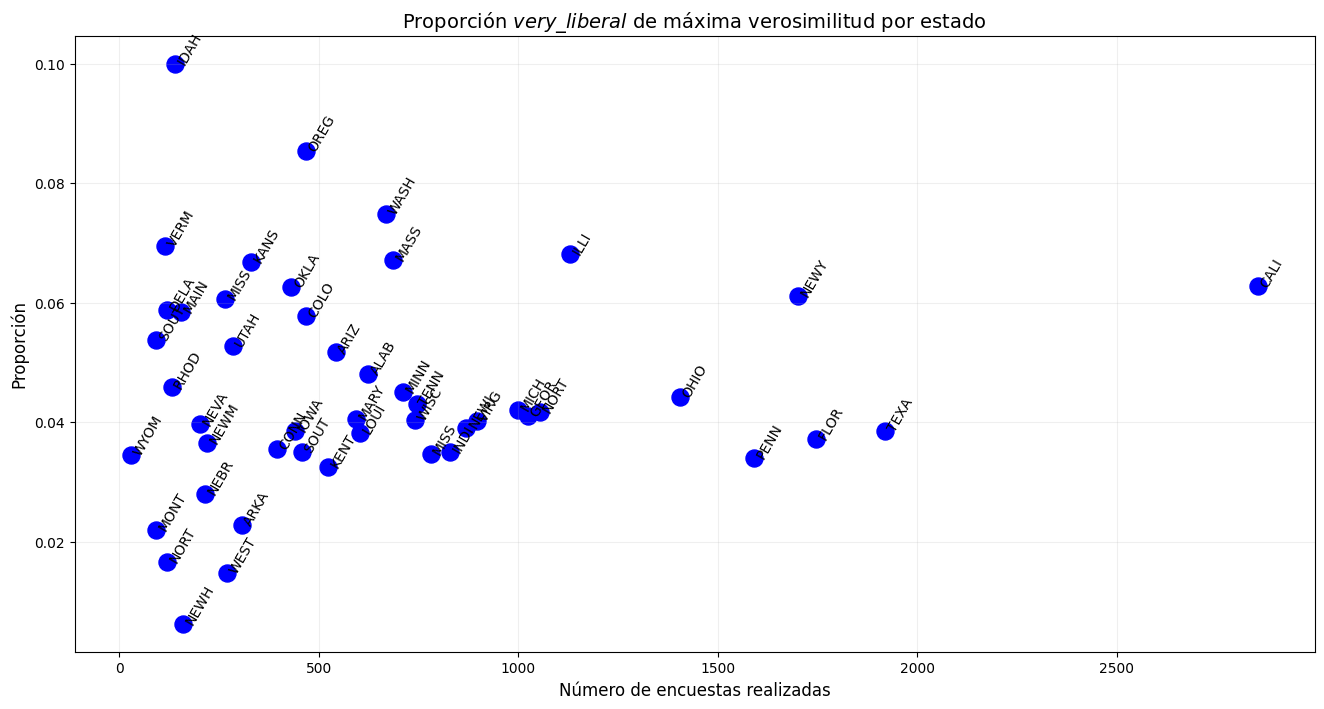
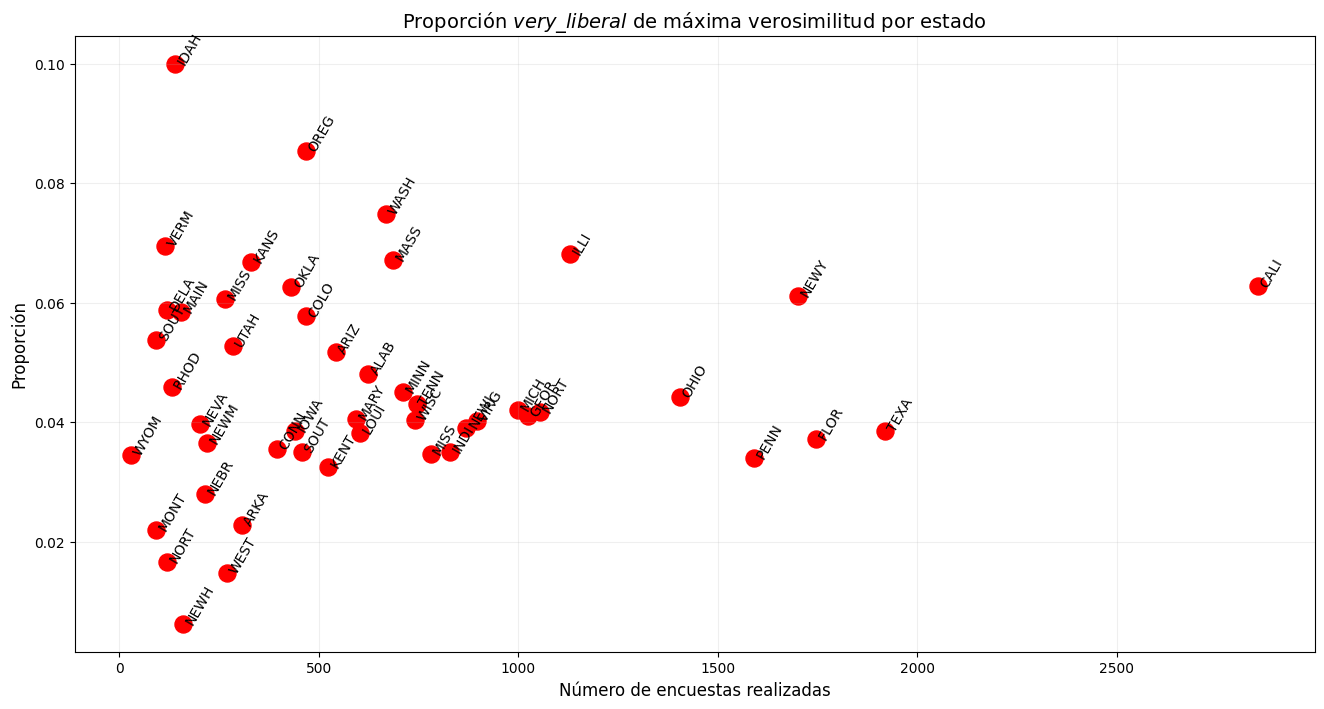
HTML render

diff --git a/bayes-first-steps.html b/bayes-first-steps.html
@@ -270,7 +270,7 @@ code span.wa { color: #60a0b0; font-weight: bold; font-style: italic; } /* Warni
 <summary>Code</summary>
 <div class="sourceCode cell-code" id="cb3"><pre class="sourceCode python code-with-copy"><code class="sourceCode python"><span id="cb3-1"><a href="#cb3-1" aria-hidden="true" tabindex="-1"></a><span class="co">#Scatter plot</span></span>
 <span id="cb3-2"><a href="#cb3-2" aria-hidden="true" tabindex="-1"></a>plt.figure(figsize<span class="op">=</span>plot_settings[<span class="st">'figsize'</span>])</span>
-<span id="cb3-3"><a href="#cb3-3" aria-hidden="true" tabindex="-1"></a>plt.scatter(x<span class="op">=</span>prop[<span class="st">'survey_total'</span>], y<span class="op">=</span>prop[<span class="st">'prop_mle'</span>], s<span class="op">=</span><span class="dv">150</span>, color<span class="op">=</span><span class="st">'blue'</span>)</span>
+<span id="cb3-3"><a href="#cb3-3" aria-hidden="true" tabindex="-1"></a>plt.scatter(x<span class="op">=</span>prop[<span class="st">'survey_total'</span>], y<span class="op">=</span>prop[<span class="st">'prop_mle'</span>], s<span class="op">=</span><span class="dv">150</span>, color<span class="op">=</span><span class="st">'red'</span>)</span>
 <span id="cb3-4"><a href="#cb3-4" aria-hidden="true" tabindex="-1"></a></span>
 <span id="cb3-5"><a href="#cb3-5" aria-hidden="true" tabindex="-1"></a><span class="co">#Anotaciones y estilo</span></span>
 <span id="cb3-6"><a href="#cb3-6" aria-hidden="true" tabindex="-1"></a><span class="cf">for</span> idx <span class="kw">in</span> prop.index:</span>
@@ -371,7 +371,7 @@ code span.wa { color: #60a0b0; font-weight: bold; font-style: italic; } /* Warni
 </div>
 <div style="text-align: justify">
 <p>En este caso, lo que se observa es que la distribución de personas de cada estado que se identifican <em>very liberal</em> bajo un enfoque frecuentista, tiene una media de <span class="math inline">\(\mu\approx 0.045\)</span> y desviación estándar <span class="math inline">\(\sigma\approx 0.018\)</span>. Se podría retomar la intuición de la sección anterior, es decir, cada uno de los estados es una representación del comportamiento general de todo el país, en donde el comportamiento general estaría centrado en <span class="math inline">\(\mu= 0.0459\)</span>.</p>
-<p>La idea en la que cada estado varía en mayor o menor medida de un valor central representa entonces el conocimiento inicial, queda definir su relevancia. En este caso, la relevancia queda dada por la desviación estándar de los datos, entre menor sea la desviación mayor será la influencia de la inicial sobre la posterior y viceversa. Se puede observar el efecto de la relevancia de la inicial comparando diferentes valores de <span class="math inline">\(\sigma\)</span>, para ello, arbitrariamente se puede escoger un estado (por ejemplo Idaho), y se va a utilizar como referencia la desviación de la gráfica anterior, es decir, <span class="math inline">\(\sigma=0.018\)</span>:</p>
+<p>La idea en la que cada estado varía en mayor o menor medida de un valor central representa entonces el conocimiento inicial, queda definir su relevancia. En este caso, la relevancia queda dada por la desviación estándar de los datos, entre menor sea la desviación mayor será la influencia de la inicial sobre la posterior y viceversa. Se puede observar el efecto de la relevancia de la inicial comparando diferentes valores de <span class="math inline">\(\sigma\)</span>, para ello, arbitrariamente se puede escoger un estado (por ejemplo Idaho), y se va a utilizar como referencia la desviación de la gráfica anterior, es decir, <span class="math inline">\(\sigma=0.018\)</span>.</p>
 </div>
 <div class="cell" data-execution_count="6">
 <details>
@@ -439,7 +439,7 @@ code span.wa { color: #60a0b0; font-weight: bold; font-style: italic; } /* Warni
 <li>Para la desviación estándar de referencia <span class="math inline">\(\sigma=0.018\)</span>, la media de la posterior se encuentra aproximadamente en <span class="math inline">\(0.075\)</span>, aproximadamente a la mitad entre la inicial y la verosimilitud.</li>
 <li>Para una desviación estándar <span class="math inline">\(\sigma=0.03\)</span>, la media de la posterior se encuentra aproximadamente en <span class="math inline">\(0.08\)</span>, mucho más cercana al valor de la verosimilitud.</li>
 </ul>
-<p>Ahora bien, una vez entendida la lógica detrás del enfoque bayesiano aplicado en un único estado, es tiempo de regresar al valor de referencia <span class="math inline">\(\sigma=0.018\)</span> y visualizar el comportamiento de todos los estados. Para ello, primero se pueden describir 9 estados de interés:</p>
+<p>Ahora bien, una vez entendida la lógica detrás del enfoque bayesiano aplicado en un único estado, es tiempo de regresar al valor de referencia <span class="math inline">\(\sigma=0.018\)</span> y visualizar el comportamiento de todos los estados. Para ello, primero se pueden describir 9 estados de interés.</p>
 </div>
 <div class="cell" data-execution_count="7">
 <details>
@@ -493,14 +493,15 @@ code span.wa { color: #60a0b0; font-weight: bold; font-style: italic; } /* Warni
 </div>
 </div>
 <div style="text-align: justify">
-<p>La relevancia del panel anterior radica en que se puede ver con claridad el efecto de la verosimilitud de cada estado en la distribución inicial. Al considerar la misma inicial para todos los estados se está modelando el comportamiento promedio del país sobre cada uno de los estados. Sin embargo, al haber modelado la verosimilitud de cada estado de manera independiente, se puede ver que la posterior de cada uno tiene comportamientos distintos dependiendo de varios posibles factores, por ejemplo:</p>
+<p>La relevancia del panel anterior radica en que se puede ver con claridad el efecto de la inicial, que parte de ser la misma para todos los estados, en la verosimilitud de cada uno de ellos. Al considerarlo de esta manera, se está modelando el comportamiento promedio del país sobre cada uno de los estados, sin embargo, al haber modelado la verosimilitud de cada estado de manera independiente, se puede ver que la posterior de cada uno tiene comportamientos distintos dependiendo de varios posibles factores. Tomando como referencia la media de la verosimilitud (Línea verde), entonces:</p>
 <ul>
-<li>Si la verosimilitud está por debajo de la inicial, entonces la posterior se mueve hacia la izquierda.</li>
-<li>Por el contrario, si la verismilitud es mayor a la inicial entonces la posterior se recorre hacia la derecha.</li>
-<li>Si se trata de un estado con poca represantación en las encuestas, entonces la inicial domina sobre la verosimilitud y vicecersa.</li>
-<li>Finalmente, en todos los casos se satisface que la posterior es un punto intermedio entre la inicial y la verosimilitud.</li>
+<li>Si la verosimilitud está por debajo de la inicial, entonces la posterior se mueve hacia la derecha, como es el caso de New Hampshire o West Virginia.</li>
+<li>Por el contrario, si la verismilitud es mayor a la inicial entonces la posterior se recorre hacia la izquierda, como es el caso de Oregon o Idaho.</li>
+<li>Si se trata de un estado con poca represantación en las encuestas, entonces la inicial desplaza considerablemente a la posterior dejándola aproximadamente a la mitad, como es el caso de Idaho o New Hampshire.</li>
+<li>En contraste, si se trata de un estado con mucha representación en las encuestas, entonces la inicial no tiene gran efecto sobre la posterior dejándola muy parecida a la verosimilitud, como es el caso de California o Texas.</li>
+<li>Finalmente, cuando tanto la inicial como la verosimilitud son muy parecidas, entonces la posterior también lo es independientemente de su representación en las encuestas, como es el caso de Ohio, Alabama, o Tennessee.</li>
 </ul>
-<p>Obtenemos el estimador de la posterior para todos los estados</p>
+<p>Así pues, nuevamente se visualiza la proporción de votos que tuvo obama contra la proporción de <em>very liberal</em> por estado, en esta ocasión utilizando ambos enfoques.</p>
 </div>
 <div class="cell" data-execution_count="8">
 <details>
@@ -514,52 +515,29 @@ code span.wa { color: #60a0b0; font-weight: bold; font-style: italic; } /* Warni
 <span id="cb8-7"><a href="#cb8-7" aria-hidden="true" tabindex="-1"></a>    x <span class="op">=</span> prop.loc[idx][<span class="st">'survey_very_lib'</span>]</span>
 <span id="cb8-8"><a href="#cb8-8" aria-hidden="true" tabindex="-1"></a>    posterior_mean <span class="op">=</span> beta.rvs(a<span class="op">=</span>(a<span class="op">+</span>x), b<span class="op">=</span>(b<span class="op">+</span>n<span class="op">-</span>x), size<span class="op">=</span>sims).mean()</span>
 <span id="cb8-9"><a href="#cb8-9" aria-hidden="true" tabindex="-1"></a>    </span>
-<span id="cb8-10"><a href="#cb8-10" aria-hidden="true" tabindex="-1"></a>    prop.loc[prop.index <span class="op">==</span> idx, <span class="st">'prop_bayes'</span>] <span class="op">=</span> posterior_mean</span></code><button title="Copy to Clipboard" class="code-copy-button"><i class="bi"></i></button></pre></div>
-</details>
-</div>
-<p>Comparamos el desplazamiento del estimador MLE provocado por la distribucón inicial bajo un enfoque bayesiano</p>
-<div class="cell" data-execution_count="9">
-<details>
-<summary>Code</summary>
-<div class="sourceCode cell-code" id="cb9"><pre class="sourceCode python code-with-copy"><code class="sourceCode python"><span id="cb9-1"><a href="#cb9-1" aria-hidden="true" tabindex="-1"></a>plt.figure(figsize<span class="op">=</span>plot_settings[<span class="st">'figsize'</span>])</span>
-<span id="cb9-2"><a href="#cb9-2" aria-hidden="true" tabindex="-1"></a>plt.scatter(x<span class="op">=</span>prop[<span class="st">'survey_total'</span>], y<span class="op">=</span>prop[<span class="st">'prop_mle'</span>], color<span class="op">=</span><span class="st">'tab:blue'</span>, s<span class="op">=</span><span class="dv">100</span>, label<span class="op">=</span><span class="st">'mle'</span>)</span>
-<span id="cb9-3"><a href="#cb9-3" aria-hidden="true" tabindex="-1"></a>plt.scatter(x<span class="op">=</span>prop[<span class="st">'survey_total'</span>], y<span class="op">=</span>prop[<span class="st">'prop_bayes'</span>], color<span class="op">=</span><span class="st">'tab:green'</span>, s<span class="op">=</span><span class="dv">100</span>, label<span class="op">=</span><span class="st">'bayes'</span>)</span>
-<span id="cb9-4"><a href="#cb9-4" aria-hidden="true" tabindex="-1"></a></span>
-<span id="cb9-5"><a href="#cb9-5" aria-hidden="true" tabindex="-1"></a><span class="cf">for</span> idx <span class="kw">in</span> prop.index:</span>
-<span id="cb9-6"><a href="#cb9-6" aria-hidden="true" tabindex="-1"></a>    x <span class="op">=</span> prop.loc[idx][<span class="st">'survey_total'</span>]</span>
-<span id="cb9-7"><a href="#cb9-7" aria-hidden="true" tabindex="-1"></a>    y_mle <span class="op">=</span> prop.loc[idx][<span class="st">'prop_mle'</span>]</span>
-<span id="cb9-8"><a href="#cb9-8" aria-hidden="true" tabindex="-1"></a>    y_bayes <span class="op">=</span> prop.loc[idx][<span class="st">'prop_bayes'</span>]</span>
-<span id="cb9-9"><a href="#cb9-9" aria-hidden="true" tabindex="-1"></a>    plt.plot([x,x], [y_mle, y_bayes], color<span class="op">=</span><span class="st">'black'</span>, alpha<span class="op">=</span><span class="fl">0.25</span>)</span>
-<span id="cb9-10"><a href="#cb9-10" aria-hidden="true" tabindex="-1"></a></span>
-<span id="cb9-11"><a href="#cb9-11" aria-hidden="true" tabindex="-1"></a>plt.title(<span class="st">'Comparación de estimadores de proporción'</span>, fontsize<span class="op">=</span>plot_settings[<span class="st">'title'</span>])</span>
-<span id="cb9-12"><a href="#cb9-12" aria-hidden="true" tabindex="-1"></a>plt.xlabel(<span class="st">'Recuento de votos por estado'</span>, fontsize<span class="op">=</span>plot_settings[<span class="st">'text'</span>])</span>
-<span id="cb9-13"><a href="#cb9-13" aria-hidden="true" tabindex="-1"></a>plt.legend(fontsize<span class="op">=</span>plot_settings[<span class="st">'annotation'</span>], loc<span class="op">=</span><span class="dv">4</span>)</span>
-<span id="cb9-14"><a href="#cb9-14" aria-hidden="true" tabindex="-1"></a>plt.grid(alpha<span class="op">=</span><span class="fl">0.2</span>)</span>
-<span id="cb9-15"><a href="#cb9-15" aria-hidden="true" tabindex="-1"></a></span>
-<span id="cb9-16"><a href="#cb9-16" aria-hidden="true" tabindex="-1"></a>plt.show()</span></code><button title="Copy to Clipboard" class="code-copy-button"><i class="bi"></i></button></pre></div>
+<span id="cb8-10"><a href="#cb8-10" aria-hidden="true" tabindex="-1"></a>    prop.loc[prop.index <span class="op">==</span> idx, <span class="st">'prop_bayes'</span>] <span class="op">=</span> posterior_mean</span>
+<span id="cb8-11"><a href="#cb8-11" aria-hidden="true" tabindex="-1"></a></span>
+<span id="cb8-12"><a href="#cb8-12" aria-hidden="true" tabindex="-1"></a><span class="co">#Graficando desplazamientos</span></span>
+<span id="cb8-13"><a href="#cb8-13" aria-hidden="true" tabindex="-1"></a>plt.figure(figsize<span class="op">=</span>plot_settings[<span class="st">'figsize'</span>])</span>
+<span id="cb8-14"><a href="#cb8-14" aria-hidden="true" tabindex="-1"></a>plt.scatter(x<span class="op">=</span>prop[<span class="st">'vote_Obama_pct'</span>]<span class="op">/</span><span class="dv">100</span>, y<span class="op">=</span>prop[<span class="st">'prop_mle'</span>], color<span class="op">=</span><span class="st">'red'</span>, s<span class="op">=</span><span class="dv">150</span>, label<span class="op">=</span><span class="st">'frecuentista'</span>, alpha<span class="op">=</span><span class="fl">0.25</span>)</span>
+<span id="cb8-15"><a href="#cb8-15" aria-hidden="true" tabindex="-1"></a>plt.scatter(x<span class="op">=</span>prop[<span class="st">'vote_Obama_pct'</span>]<span class="op">/</span><span class="dv">100</span>, y<span class="op">=</span>prop[<span class="st">'prop_bayes'</span>], color<span class="op">=</span><span class="st">'blue'</span>, s<span class="op">=</span><span class="dv">150</span>, label<span class="op">=</span><span class="st">'bayesiano'</span>)</span>
+<span id="cb8-16"><a href="#cb8-16" aria-hidden="true" tabindex="-1"></a><span class="cf">for</span> idx <span class="kw">in</span> prop.index:</span>
+<span id="cb8-17"><a href="#cb8-17" aria-hidden="true" tabindex="-1"></a>    x <span class="op">=</span> prop.loc[idx][<span class="st">'vote_Obama_pct'</span>]<span class="op">/</span><span class="dv">100</span></span>
+<span id="cb8-18"><a href="#cb8-18" aria-hidden="true" tabindex="-1"></a>    y_mle <span class="op">=</span> prop.loc[idx][<span class="st">'prop_mle'</span>]</span>
+<span id="cb8-19"><a href="#cb8-19" aria-hidden="true" tabindex="-1"></a>    y_bayes <span class="op">=</span> prop.loc[idx][<span class="st">'prop_bayes'</span>]</span>
+<span id="cb8-20"><a href="#cb8-20" aria-hidden="true" tabindex="-1"></a>    plt.plot([x,x], [y_mle, y_bayes], color<span class="op">=</span><span class="st">'black'</span>, alpha<span class="op">=</span><span class="fl">0.25</span>)</span>
+<span id="cb8-21"><a href="#cb8-21" aria-hidden="true" tabindex="-1"></a></span>
+<span id="cb8-22"><a href="#cb8-22" aria-hidden="true" tabindex="-1"></a><span class="co">#Anotaciones y estilo</span></span>
+<span id="cb8-23"><a href="#cb8-23" aria-hidden="true" tabindex="-1"></a>plt.title(<span class="vs">r'Comparación de los votos por Obama contra la proporción $very\_liberal$ en ambos enfoques'</span>, fontsize<span class="op">=</span>plot_settings[<span class="st">'title'</span>])</span>
+<span id="cb8-24"><a href="#cb8-24" aria-hidden="true" tabindex="-1"></a>plt.xlabel(<span class="st">'Proporción de votos por Obama'</span>, fontsize<span class="op">=</span>plot_settings[<span class="st">'text'</span>])</span>
+<span id="cb8-25"><a href="#cb8-25" aria-hidden="true" tabindex="-1"></a>plt.ylabel(<span class="st">'Proporción de very liberal'</span>, fontsize<span class="op">=</span>plot_settings[<span class="st">'text'</span>])</span>
+<span id="cb8-26"><a href="#cb8-26" aria-hidden="true" tabindex="-1"></a>plt.legend(fontsize<span class="op">=</span>plot_settings[<span class="st">'annotation'</span>], loc<span class="op">=</span><span class="dv">4</span>)</span>
+<span id="cb8-27"><a href="#cb8-27" aria-hidden="true" tabindex="-1"></a>plt.grid(alpha<span class="op">=</span><span class="fl">0.2</span>)</span>
+<span id="cb8-28"><a href="#cb8-28" aria-hidden="true" tabindex="-1"></a></span>
+<span id="cb8-29"><a href="#cb8-29" aria-hidden="true" tabindex="-1"></a>plt.show()</span></code><button title="Copy to Clipboard" class="code-copy-button"><i class="bi"></i></button></pre></div>
 </details>
 <div class="cell-output cell-output-display">
-<p><img src="bayes-first-steps_files/figure-html/cell-10-output-1.png" class="img-fluid"></p>
-</div>
-</div>
-<p>Nuevamente graficamos la proporción de votos que tuvo obama contra la proporción de <em>very liberal</em> por estado, en esta ocasión con los resultados del enfoque bayesiano.</p>
-<div class="cell" data-execution_count="10">
-<details>
-<summary>Code</summary>
-<div class="sourceCode cell-code" id="cb10"><pre class="sourceCode python code-with-copy"><code class="sourceCode python"><span id="cb10-1"><a href="#cb10-1" aria-hidden="true" tabindex="-1"></a>plt.figure(figsize<span class="op">=</span>plot_settings[<span class="st">'figsize'</span>])</span>
-<span id="cb10-2"><a href="#cb10-2" aria-hidden="true" tabindex="-1"></a>plt.scatter(x<span class="op">=</span>prop[<span class="st">'vote_Obama_pct'</span>]<span class="op">/</span><span class="dv">100</span>, y<span class="op">=</span>prop[<span class="st">'prop_mle'</span>], color<span class="op">=</span><span class="st">'red'</span>, s<span class="op">=</span><span class="dv">100</span>, label<span class="op">=</span><span class="st">'mle'</span>, alpha<span class="op">=</span><span class="fl">0.25</span>)</span>
-<span id="cb10-3"><a href="#cb10-3" aria-hidden="true" tabindex="-1"></a>plt.scatter(x<span class="op">=</span>prop[<span class="st">'vote_Obama_pct'</span>]<span class="op">/</span><span class="dv">100</span>, y<span class="op">=</span>prop[<span class="st">'prop_bayes'</span>], color<span class="op">=</span><span class="st">'blue'</span>, s<span class="op">=</span><span class="dv">100</span>, label<span class="op">=</span><span class="st">'bayes'</span>)</span>
-<span id="cb10-4"><a href="#cb10-4" aria-hidden="true" tabindex="-1"></a></span>
-<span id="cb10-5"><a href="#cb10-5" aria-hidden="true" tabindex="-1"></a>plt.title(<span class="st">'Comparando los votos por Obama contra la proporción very liberal Bayes'</span>, fontsize<span class="op">=</span>plot_settings[<span class="st">'title'</span>])</span>
-<span id="cb10-6"><a href="#cb10-6" aria-hidden="true" tabindex="-1"></a>plt.xlabel(<span class="st">'Proporción de votos por Obama'</span>, fontsize<span class="op">=</span>plot_settings[<span class="st">'text'</span>])</span>
-<span id="cb10-7"><a href="#cb10-7" aria-hidden="true" tabindex="-1"></a>plt.ylabel(<span class="st">'Proporción de very liberal Bayes'</span>, fontsize<span class="op">=</span>plot_settings[<span class="st">'text'</span>])</span>
-<span id="cb10-8"><a href="#cb10-8" aria-hidden="true" tabindex="-1"></a>plt.legend(fontsize<span class="op">=</span>plot_settings[<span class="st">'annotation'</span>], loc<span class="op">=</span><span class="dv">4</span>)</span>
-<span id="cb10-9"><a href="#cb10-9" aria-hidden="true" tabindex="-1"></a>plt.grid(alpha<span class="op">=</span><span class="fl">0.2</span>)</span>
-<span id="cb10-10"><a href="#cb10-10" aria-hidden="true" tabindex="-1"></a></span>
-<span id="cb10-11"><a href="#cb10-11" aria-hidden="true" tabindex="-1"></a>plt.show()</span></code><button title="Copy to Clipboard" class="code-copy-button"><i class="bi"></i></button></pre></div>
-</details>
-<div class="cell-output cell-output-display">
-<p><img src="bayes-first-steps_files/figure-html/cell-11-output-1.png" class="img-fluid"></p>
+<p><img src="bayes-first-steps_files/figure-html/cell-9-output-1.png" class="img-fluid"></p>
 </div>
 </div>
 <ul>
@@ -571,67 +549,59 @@ code span.wa { color: #60a0b0; font-weight: bold; font-style: italic; } /* Warni
 </section>
 <section id="anexo-2" class="level2">
 <h2 class="anchored" data-anchor-id="anexo-2">Anexo 2</h2>
-<p>Utilizando el paquete de python <code>sympy</code> para cálculo simbólico, se obtuvieron las ecuaciones que resulven los parámetros <span class="math inline">\(a\)</span>, <span class="math inline">\(b\)</span> de una distribución conjugada beta-binomial dados los valores de <span class="math inline">\(\mu\)</span>, <span class="math inline">\(\sigma\)</span>.</p>
-<div class="cell" data-execution_count="11">
+<p>Utilizando el módulo de python <code>sympy</code> para cálculo simbólico, se obtuvieron las ecuaciones que resulven los parámetros <span class="math inline">\(a\)</span>, <span class="math inline">\(b\)</span> de una distribución conjugada beta-binomial dados los valores de <span class="math inline">\(\mu\)</span>, <span class="math inline">\(\sigma\)</span>.</p>
+<div class="cell" data-execution_count="9">
 <details>
 <summary>Code</summary>
-<div class="sourceCode cell-code" id="cb11"><pre class="sourceCode python code-with-copy"><code class="sourceCode python"><span id="cb11-1"><a href="#cb11-1" aria-hidden="true" tabindex="-1"></a><span class="im">from</span> sympy <span class="im">import</span> symbols, Eq, solve</span>
-<span id="cb11-2"><a href="#cb11-2" aria-hidden="true" tabindex="-1"></a><span class="im">from</span> sympy.abc <span class="im">import</span> mu, sigma</span></code><button title="Copy to Clipboard" class="code-copy-button"><i class="bi"></i></button></pre></div>
+<div class="sourceCode cell-code" id="cb9"><pre class="sourceCode python code-with-copy"><code class="sourceCode python"><span id="cb9-1"><a href="#cb9-1" aria-hidden="true" tabindex="-1"></a><span class="im">from</span> sympy <span class="im">import</span> symbols, Eq, solve</span>
+<span id="cb9-2"><a href="#cb9-2" aria-hidden="true" tabindex="-1"></a><span class="im">from</span> sympy.abc <span class="im">import</span> mu, sigma</span>
+<span id="cb9-3"><a href="#cb9-3" aria-hidden="true" tabindex="-1"></a></span>
+<span id="cb9-4"><a href="#cb9-4" aria-hidden="true" tabindex="-1"></a>a, b, s2, m <span class="op">=</span> symbols(<span class="st">"a b sigma^2 mu"</span>)</span>
+<span id="cb9-5"><a href="#cb9-5" aria-hidden="true" tabindex="-1"></a></span>
+<span id="cb9-6"><a href="#cb9-6" aria-hidden="true" tabindex="-1"></a>equation_1 <span class="op">=</span> Eq( a <span class="op">/</span> (a<span class="op">+</span>b), m )</span>
+<span id="cb9-7"><a href="#cb9-7" aria-hidden="true" tabindex="-1"></a>equation_2 <span class="op">=</span> Eq( a<span class="op">*</span>b <span class="op">/</span> ((a<span class="op">+</span>b)<span class="op">**</span><span class="dv">2</span> <span class="op">*</span> (a <span class="op">+</span> b <span class="op">+</span> <span class="dv">1</span>)), s2 )</span>
+<span id="cb9-8"><a href="#cb9-8" aria-hidden="true" tabindex="-1"></a>solution <span class="op">=</span> solve((equation_1, equation_2), (a, b))</span>
+<span id="cb9-9"><a href="#cb9-9" aria-hidden="true" tabindex="-1"></a></span>
+<span id="cb9-10"><a href="#cb9-10" aria-hidden="true" tabindex="-1"></a>equation_1</span></code><button title="Copy to Clipboard" class="code-copy-button"><i class="bi"></i></button></pre></div>
 </details>
-</div>
-<div class="cell" data-execution_count="12">
-<details>
-<summary>Code</summary>
-<div class="sourceCode cell-code" id="cb12"><pre class="sourceCode python code-with-copy"><code class="sourceCode python"><span id="cb12-1"><a href="#cb12-1" aria-hidden="true" tabindex="-1"></a>a, b, s2, m <span class="op">=</span> symbols(<span class="st">"a b sigma^2 mu"</span>)</span>
-<span id="cb12-2"><a href="#cb12-2" aria-hidden="true" tabindex="-1"></a></span>
-<span id="cb12-3"><a href="#cb12-3" aria-hidden="true" tabindex="-1"></a>equation_1 <span class="op">=</span> Eq( a <span class="op">/</span> (a<span class="op">+</span>b), m )</span>
-<span id="cb12-4"><a href="#cb12-4" aria-hidden="true" tabindex="-1"></a>equation_2 <span class="op">=</span> Eq( a<span class="op">*</span>b <span class="op">/</span> ((a<span class="op">+</span>b)<span class="op">**</span><span class="dv">2</span> <span class="op">*</span> (a <span class="op">+</span> b <span class="op">+</span> <span class="dv">1</span>)), s2 )</span>
-<span id="cb12-5"><a href="#cb12-5" aria-hidden="true" tabindex="-1"></a>solution <span class="op">=</span> solve((equation_1, equation_2), (a, b))</span></code><button title="Copy to Clipboard" class="code-copy-button"><i class="bi"></i></button></pre></div>
-</details>
-</div>
-<div class="cell" data-execution_count="13">
-<details>
-<summary>Code</summary>
-<div class="sourceCode cell-code" id="cb13"><pre class="sourceCode python code-with-copy"><code class="sourceCode python"><span id="cb13-1"><a href="#cb13-1" aria-hidden="true" tabindex="-1"></a>equation_1</span></code><button title="Copy to Clipboard" class="code-copy-button"><i class="bi"></i></button></pre></div>
-</details>
-<div class="cell-output cell-output-display" data-execution_count="13">
+<div class="cell-output cell-output-display" data-execution_count="9">
 <p><span class="math inline">\(\displaystyle \frac{a}{a + b} = \mu\)</span></p>
 </div>
 </div>
-<div class="cell" data-execution_count="14">
+<div class="cell" data-execution_count="10">
 <details>
 <summary>Code</summary>
-<div class="sourceCode cell-code" id="cb14"><pre class="sourceCode python code-with-copy"><code class="sourceCode python"><span id="cb14-1"><a href="#cb14-1" aria-hidden="true" tabindex="-1"></a>equation_2</span></code><button title="Copy to Clipboard" class="code-copy-button"><i class="bi"></i></button></pre></div>
+<div class="sourceCode cell-code" id="cb10"><pre class="sourceCode python code-with-copy"><code class="sourceCode python"><span id="cb10-1"><a href="#cb10-1" aria-hidden="true" tabindex="-1"></a>equation_2</span></code><button title="Copy to Clipboard" class="code-copy-button"><i class="bi"></i></button></pre></div>
 </details>
-<div class="cell-output cell-output-display" data-execution_count="14">
+<div class="cell-output cell-output-display" data-execution_count="10">
 <p><span class="math inline">\(\displaystyle \frac{a b}{\left(a + b\right)^{2} \left(a + b + 1\right)} = \sigma^{2}\)</span></p>
 </div>
 </div>
-<div class="cell" data-execution_count="15">
+<div class="cell" data-execution_count="11">
 <details>
 <summary>Code</summary>
-<div class="sourceCode cell-code" id="cb15"><pre class="sourceCode python code-with-copy"><code class="sourceCode python"><span id="cb15-1"><a href="#cb15-1" aria-hidden="true" tabindex="-1"></a><span class="bu">print</span>(<span class="st">"Solución para el parámetro 'a':</span><span class="ch">\n</span><span class="st">"</span>)</span>
-<span id="cb15-2"><a href="#cb15-2" aria-hidden="true" tabindex="-1"></a>solution[<span class="dv">0</span>][<span class="dv">0</span>]</span></code><button title="Copy to Clipboard" class="code-copy-button"><i class="bi"></i></button></pre></div>
+<div class="sourceCode cell-code" id="cb11"><pre class="sourceCode python code-with-copy"><code class="sourceCode python"><span id="cb11-1"><a href="#cb11-1" aria-hidden="true" tabindex="-1"></a><span class="bu">print</span>(<span class="st">"Solución para el parámetro 'a':</span><span class="ch">\n</span><span class="st">"</span>)</span>
+<span id="cb11-2"><a href="#cb11-2" aria-hidden="true" tabindex="-1"></a>solution[<span class="dv">0</span>][<span class="dv">0</span>]</span></code><button title="Copy to Clipboard" class="code-copy-button"><i class="bi"></i></button></pre></div>
 </details>
 <div class="cell-output cell-output-stdout">
 <pre><code>Solución para el parámetro 'a':
 </code></pre>
 </div>
-<div class="cell-output cell-output-display" data-execution_count="15">
+<div class="cell-output cell-output-display" data-execution_count="11">
 <p><span class="math inline">\(\displaystyle \frac{\mu \left(- \mu^{2} + \mu - \sigma^{2}\right)}{\sigma^{2}}\)</span></p>
 </div>
 </div>
-<div class="cell" data-execution_count="16">
+<div class="cell" data-execution_count="12">
 <details>
 <summary>Code</summary>
-<div class="sourceCode cell-code" id="cb17"><pre class="sourceCode python code-with-copy"><code class="sourceCode python"><span id="cb17-1"><a href="#cb17-1" aria-hidden="true" tabindex="-1"></a><span class="bu">print</span>(<span class="st">"Solución para el parámetro 'b':</span><span class="ch">\n</span><span class="st">"</span>)</span>
-<span id="cb17-2"><a href="#cb17-2" aria-hidden="true" tabindex="-1"></a>solution[<span class="dv">0</span>][<span class="dv">1</span>]</span></code><button title="Copy to Clipboard" class="code-copy-button"><i class="bi"></i></button></pre></div>
+<div class="sourceCode cell-code" id="cb13"><pre class="sourceCode python code-with-copy"><code class="sourceCode python"><span id="cb13-1"><a href="#cb13-1" aria-hidden="true" tabindex="-1"></a><span class="bu">print</span>(<span class="st">"Solución para el parámetro 'b':</span><span class="ch">\n</span><span class="st">"</span>)</span>
+<span id="cb13-2"><a href="#cb13-2" aria-hidden="true" tabindex="-1"></a>solution[<span class="dv">0</span>][<span class="dv">1</span>]</span></code><button title="Copy to Clipboard" class="code-copy-button"><i class="bi"></i></button></pre></div>
 </details>
 <div class="cell-output cell-output-stdout">
 <pre><code>Solución para el parámetro 'b':
 </code></pre>
 </div>
-<div class="cell-output cell-output-display" data-execution_count="16">
+<div class="cell-output cell-output-display" data-execution_count="12">
 <p><span class="math inline">\(\displaystyle \frac{\left(\mu - 1\right) \left(\mu^{2} - \mu + \sigma^{2}\right)}{\sigma^{2}}\)</span></p>
 </div>
 </div>
